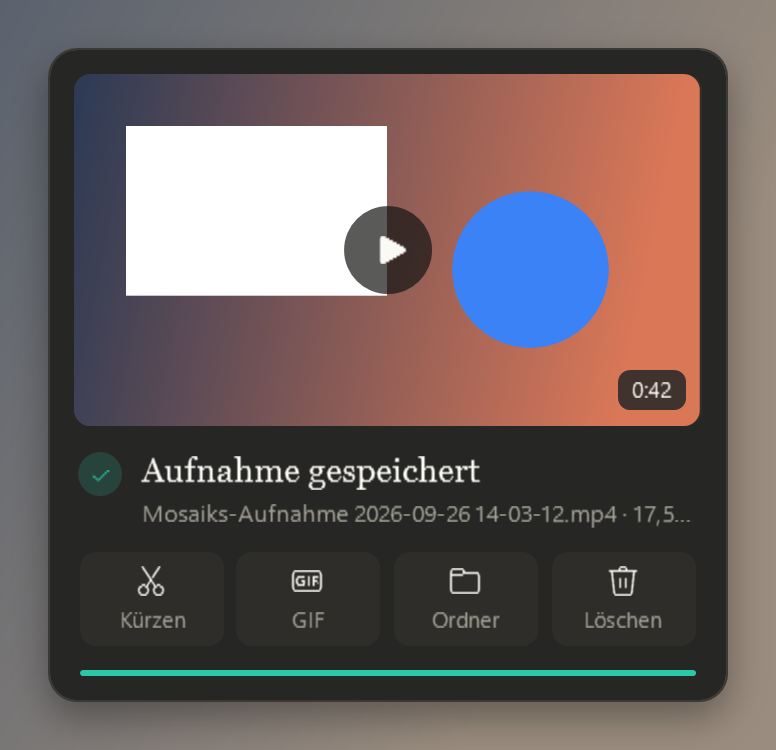
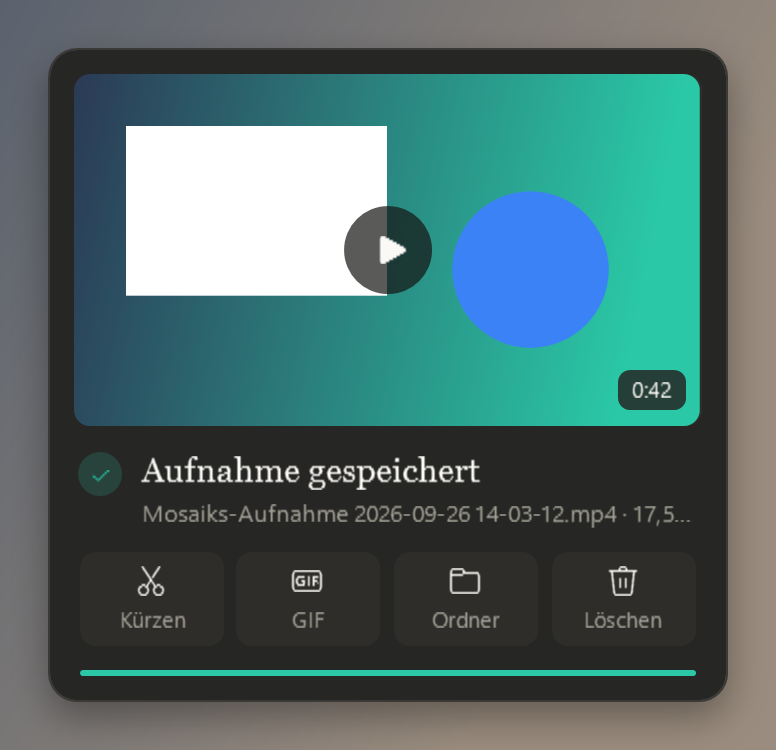
Pixel tests: the mock screen is turquoise, not the old accent
The thumbnail of the recording and screenshot cards faded into the old
terracotta accent (#D97757). It now runs from #2B3A55 to the bright
turquoise #2AC8A6; the two references and the README copy of the
recording card are re-rendered.

Changed region(s): [[0.0928, 0.092, 0.9278, 0.5827]]

diff --git a/tests/MosaikCapture.Engine.Tests/Pixel/PixelTests.cs b/tests/MosaikCapture.Engine.Tests/Pixel/PixelTests.cs
@@ -195,7 +195,7 @@ public sealed class PixelTests : IDisposable
         var dv = new DrawingVisual();
         using (var dc = dv.RenderOpen())
         {
-            dc.DrawRectangle(new LinearGradientBrush(Color.FromRgb(0x2B, 0x3A, 0x55), Color.FromRgb(0xD9, 0x77, 0x57), 20), null, new Rect(0, 0, 960, 540));
+            dc.DrawRectangle(new LinearGradientBrush(Color.FromRgb(0x2B, 0x3A, 0x55), Color.FromRgb(0x2A, 0xC8, 0xA6), 20), null, new Rect(0, 0, 960, 540));
             dc.DrawRectangle(Brushes.White, null, new Rect(80, 80, 400, 260));
             dc.DrawEllipse(new SolidColorBrush(Color.FromRgb(0x3B, 0x82, 0xF6)), null, new Point(700, 300), 120, 120);
         }
